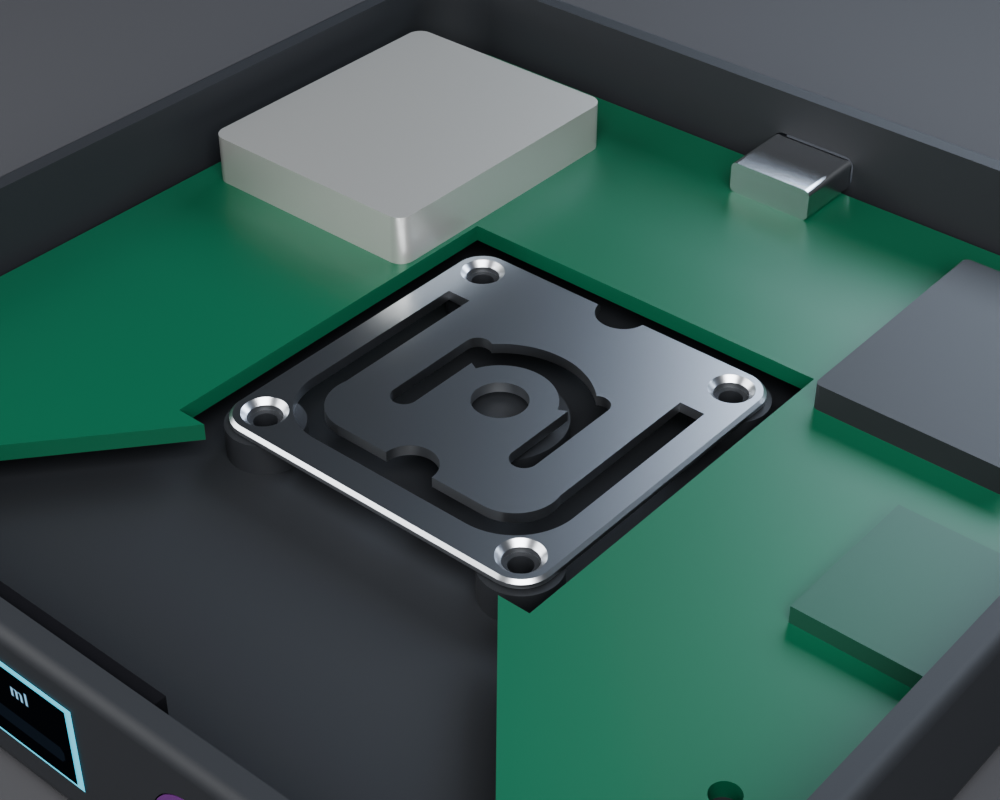
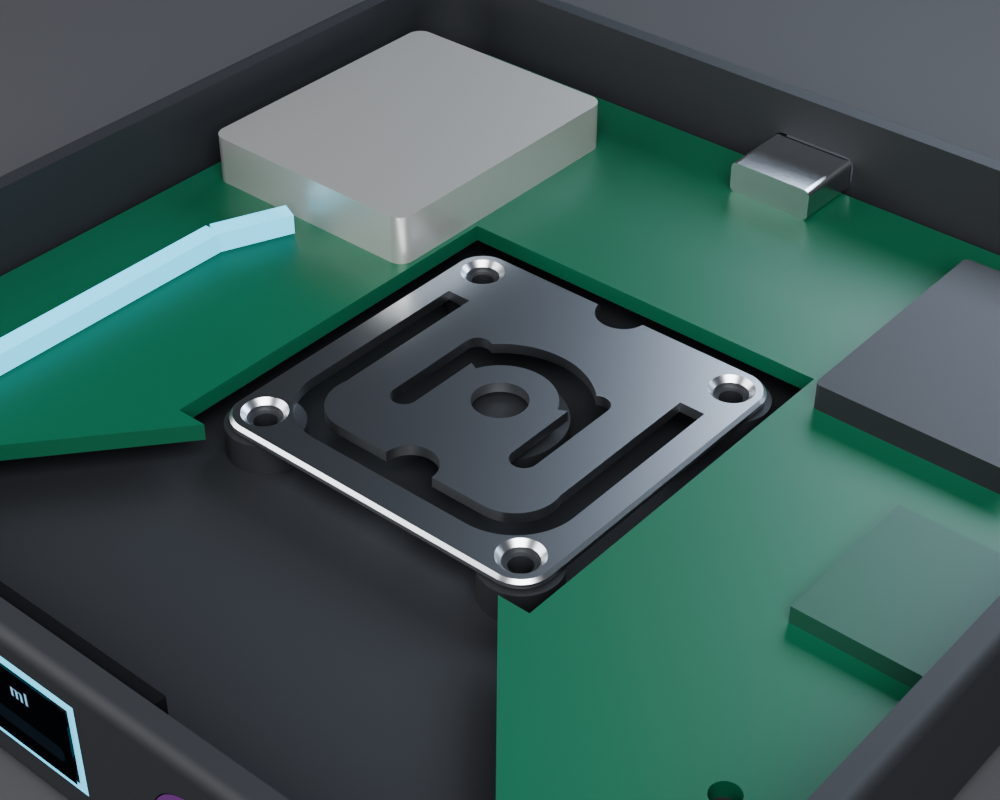
feat(cad): PMMA light guide (halo frame + front light line + pipe from D1); 13 parts 21/21; update renders/docs

Changed region(s): [[0.0, 0.2188, 0.341, 0.5], [0.0, 0.8125, 0.093, 1.0], [0.0, 0.9062, 0.031, 0.9375]]

diff --git a/mechanical/square_v1/cad/square_model.py b/mechanical/square_v1/cad/square_model.py
@@ -85,6 +85,16 @@ BAT_X, BAT_Y, BAT_Z = 25.0, 30.0, 5.0
 BAT_POS = (-32.0, 24.0)
 OLED_MOD_W, OLED_MOD_H, OLED_MOD_T = 38.0, 12.0, 1.2
 
+# light guide: front halo frame + light line + internal pipe from D1
+LG_T = 0.9
+LG_FRAME_W = 0.8
+LG_LINE_H = 1.5
+LG_PIPE = 2.0
+LG_PIPE_Z = 7.8
+LG_Y = -L / 2 + 0.025 + LG_T / 2          # -49.525
+LG_LINE_X0, LG_LINE_X1 = -45.0, OLED_X - WIN_W / 2 - LG_FRAME_W
+LG_LINE_W = LG_LINE_X1 - LG_LINE_X0
+
 MATERIALS = {
     "shell":   ("PC/ABS + soft-touch", 1.15),
     "plate":   ("6063-T5 anodised Al", 2.70),
@@ -97,6 +107,7 @@ MATERIALS = {
     "oled":    ("OLED module", 1.80),
     "button":  ("PC + silicone", 1.20),
     "glass":   ("smoked PMMA 2H", 1.18),
+    "light_guide": ("PMMA clear", 1.18),
     "pad":     ("silicone 50A", 1.15),
 }
 
@@ -112,6 +123,7 @@ COLORS = {
     "oled":    "#15171A",
     "button":  "#E6E3DC",
     "glass":   "#2A2E35",
+    "light_guide": "#DDE8F2",
     "pad":     "#4A4C50",
 }
 
@@ -195,7 +207,29 @@ def make_shell():
     # rear USB-C
     body -= Pos(0, L / 2, 8.4) * rounded_box_y(9.2, 8.0, 3.3, 1.0)
 
+    # light guide: front recess (frame + line) and pipe hole
+    frame = Pos(OLED_X, LG_Y, OLED_Z) * Box(WIN_W + 2 * LG_FRAME_W, LG_T + 0.05,
+                                            WIN_H + 2 * LG_FRAME_W)
+    frame -= Pos(OLED_X, LG_Y, OLED_Z) * Box(WIN_W, LG_T + 0.3, WIN_H)
+    body -= frame
+    body -= Pos((LG_LINE_X0 + LG_LINE_X1) / 2, LG_Y, OLED_Z) * \
+        Box(LG_LINE_W, LG_T + 0.05, LG_LINE_H)
+    body -= Pos(-35.0, -48.3, LG_PIPE_Z) * Box(LG_PIPE + 0.2, 1.6, LG_PIPE + 0.2)
+
     return body
+
+
+def make_light_guide():
+    """PMMA light guide: front halo frame + light line + pipe from D1."""
+    frame = Pos(OLED_X, LG_Y, OLED_Z) * Box(WIN_W + 2 * LG_FRAME_W, LG_T,
+                                            WIN_H + 2 * LG_FRAME_W)
+    frame -= Pos(OLED_X, LG_Y, OLED_Z) * Box(WIN_W, LG_T + 0.2, WIN_H)
+    line = Pos((LG_LINE_X0 + LG_LINE_X1) / 2, LG_Y, OLED_Z) * \
+        Box(LG_LINE_W, LG_T, LG_LINE_H)
+    pipe = Pos(-35.0, -24.55, LG_PIPE_Z) * Box(LG_PIPE, 49.1, LG_PIPE)
+    diag = Pos(-33.5, 3.5, LG_PIPE_Z) * Rot(0, 0, -113.2) * \
+        Box(7.6, LG_PIPE, LG_PIPE)
+    return frame + line + pipe + diag
 
 
 def make_plate():
@@ -302,6 +336,7 @@ PARTS = {
     "oled":    make_oled,
     "button":  make_button,
     "glass":   make_glass,
+    "light_guide": make_light_guide,
     "pad":     make_pad,
 }
 

diff --git a/render/square_b/build_scene.py b/render/square_b/build_scene.py
@@ -22,7 +22,7 @@ OUT = os.path.join(HERE, "renders")
 os.makedirs(OUT, exist_ok=True)
 
 PARTS_ORDER = ["shell", "pcb", "sensor", "esp32", "hx711", "usbc",
-               "battery", "oled", "button", "glass", "pad", "plate"]
+               "battery", "oled", "button", "glass", "pad", "light_guide", "plate"]
 
 
 def reset():
@@ -102,8 +102,12 @@ def material(name, base, metallic=0.0, rough=0.5, emission=None, strength=0.0):
 
 def apply_materials(objs, lo, hi, s):
     for name, lst in objs.items():
-        c = CFG["colors"][name]
-        m = material("M_" + name, c["base"], c.get("metallic", 0), c.get("rough", 0.5))
+        if name == "light_guide":
+            m = material("M_light_guide", (0.12, 0.45, 0.65), 0.0, 0.15,
+                         emission=(0.15, 0.75, 1.0), strength=1.6)
+        else:
+            c = CFG["colors"][name]
+            m = material("M_" + name, c["base"], c.get("metallic", 0), c.get("rough", 0.5))
         for o in lst:
             o.data.materials.clear()
             o.data.materials.append(m)
@@ -128,21 +132,7 @@ def apply_materials(objs, lo, hi, s):
     plane = bpy.context.object
     plane.name = "screen_ui"
     plane.scale = (26 * k, 7 * k, 1)
-    # halo: a slightly larger emissive plane behind the screen (0.9 mm border)
-    hm = bpy.data.materials.new("M_halo")
-    hm.use_nodes = True
-    hb = hm.node_tree.nodes.get("Principled BSDF")
-    hb.inputs["Base Color"].default_value = (0.05, 0.18, 0.22, 1)
-    hb.inputs["Emission Color"].default_value = (0.15, 0.75, 1.0, 1)
-    hb.inputs["Emission Strength"].default_value = 1.5
-    bpy.ops.mesh.primitive_plane_add(size=1, location=(-8 * k, lo.y - 0.0001, 8 * k),
-                                     rotation=(math.radians(90), 0, 0))
-    halo = bpy.context.object
-    halo.name = "halo"
-    halo.scale = (27.2 * k, 7.8 * k, 1)
-    halo.data.materials.append(hm)
     plane.data.materials.append(sm)
-
 
 def studio():
     # ground

diff --git a/mechanical/square_v1/cad/verify_v01.py b/mechanical/square_v1/cad/verify_v01.py
@@ -1,5 +1,5 @@
 #!/usr/bin/env python3
-"""Square V1 - experimental verification (12 parts, interference, STEP)."""
+"""Square V1 - experimental verification (13 parts, interference, STEP)."""
 import json
 import sys
 from pathlib import Path
@@ -31,6 +31,10 @@ DISJOINT = [
     ("hx711", "battery"), ("hx711", "button"), ("hx711", "oled"),
     ("usbc", "battery"), ("usbc", "oled"), ("usbc", "button"),
     ("oled", "button"), ("oled", "glass"), ("button", "glass"),
+    ("light_guide", "shell"), ("light_guide", "plate"), ("light_guide", "pcb"),
+    ("light_guide", "sensor"), ("light_guide", "esp32"), ("light_guide", "hx711"),
+    ("light_guide", "usbc"), ("light_guide", "battery"), ("light_guide", "oled"),
+    ("light_guide", "button"), ("light_guide", "glass"), ("light_guide", "pad"),
 ]
 
 
@@ -41,7 +45,7 @@ def main():
     print("SmartCoaster V1 (square) verification")
     print("=" * 78)
 
-    check("assembly solids == 12", len(assy.solids()) == 12,
+    check("assembly solids == 13", len(assy.solids()) == 13,
           f"{len(assy.solids())} solids")
     check("bbox 100 x 100 x 18",
           abs(bb.size.X - 100) < 1e-6 and abs(bb.size.Y - 100) < 1e-6
@@ -155,7 +159,7 @@ def main():
     if step.exists():
         imp = import_step(str(step))
         ib = imp.bounding_box()
-        check("STEP re-import: 12 solids", len(imp.solids()) == 12,
+        check("STEP re-import: 13 solids", len(imp.solids()) == 13,
               f"{len(imp.solids())} solids")
         check("STEP re-import: bbox",
               abs(ib.size.X - 100) < 1e-3 and abs(ib.size.Z - 18) < 1e-3,

diff --git a/docs/07_Product_Roadmap.md b/docs/07_Product_Roadmap.md
@@ -16,9 +16,11 @@
 - [ ] 连续 7 天饮水记录不丢数、不误触发。
 
 **外观（可用级）**
-- [ ] 前脸：屏 26×7、键 x=17、halo 均匀（当前 LED 位置需复核）。
+- [x] 前脸：屏 26×7、键 x=17
+- [x] **光导进 CAD**：窗周 0.8 mm halo 框 + 左前缘 1.5 mm 灯线 + 内部 2×2 mm 导光条（从 D1 到窗），PMMA clear；13 件 **21/21**，导光件 307.5 mm³/0.4 g
+- [ ] halo 均匀性实测（单 LED + 57 mm 光导；P3 双灯/匀光）
 - [ ] 顶板/底壳配合、无段差、按键手感。
-- [ ] 3D 打印首件（外壳 + 顶板）验证屏/键/传感器配合。
+- [ ] 3D 打印首件（外壳 + 顶板）验证屏/键/传感器配合；光导件用 PMMA（非 FDM）。
 
 ## P2 — 可制造
 

diff --git a/README.md b/README.md
@@ -8,7 +8,7 @@
 
 | 层 | 状态 |
 |---|---|
-| 机械 | LUMEN 圆形 **21/21**；方形 B **21/21**（B 前脸：屏 26×7 @ x=−8、键 x=17） |
+| 机械 | LUMEN 圆形 **21/21**；方形 B **21/21**（B 前脸 + PMMA 光导：窗周 halo + 前缘灯线 + 导光条） |
 | FEA | HY928D 5 kg 中心 **0.3435 mm**（k≈142.8 N/mm）、支反力 100%、+y 两颗 99.4%、非奇异热点 468 MPa |
 | 电路 | ngspice：3.956 mV → 0.506 V（×128）、RC 1.65 kHz；HX711 3.3 V 满量程 ±12.9 mV（30.7%） |
 | PCB | **P1 板：4 层、0 short / 0 unconnected**；62 器件 / 40 网络、ERC 0；46 项丝印 warning 暂缓；单 RGB + 光导；S3 封装 PROVISIONAL |

diff --git a/render/PRINT_GUIDE.md b/render/PRINT_GUIDE.md
@@ -11,6 +11,10 @@
 | Top plate 顶板 | 100×100×14.5（含裙边/柱） | 1 | 翻转，顶面贴床；裙边/柱朝上；无需支撑 |
 | Button 按键 | Ø8.2×5 | 1 | 加 5 mm brim |
 
+## 光导件（非 FDM）
+
+- `light_guide`：PMMA clear，0.9 mm 厚，窗周 halo 框 + 左前灯线 + 2×2 内部导光条；激光切割/透明树脂，不要用不透光耗材。
+
 ## 不打印
 
 OLED 玻璃（PMMA）、硅胶垫、PCB、HY928D、电池、螺钉、0.91" 屏模组；按键帽可打印也可采购。
